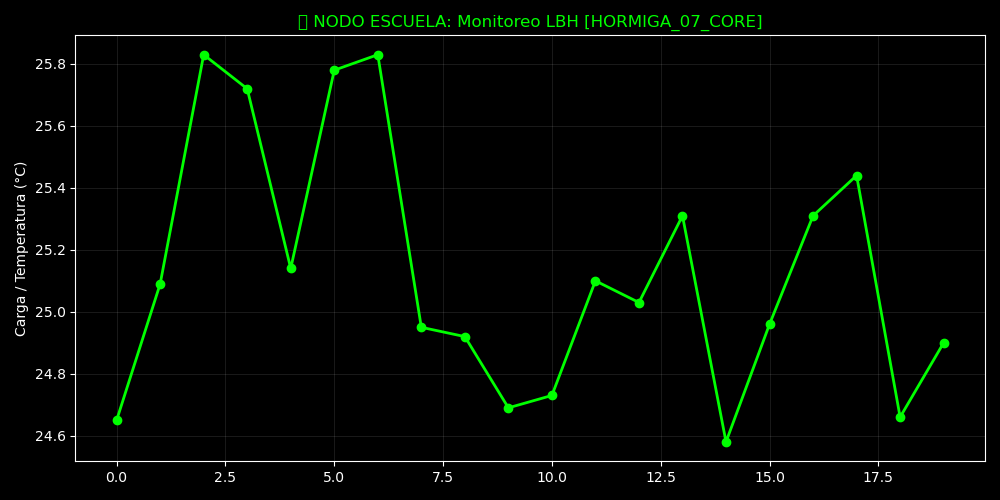
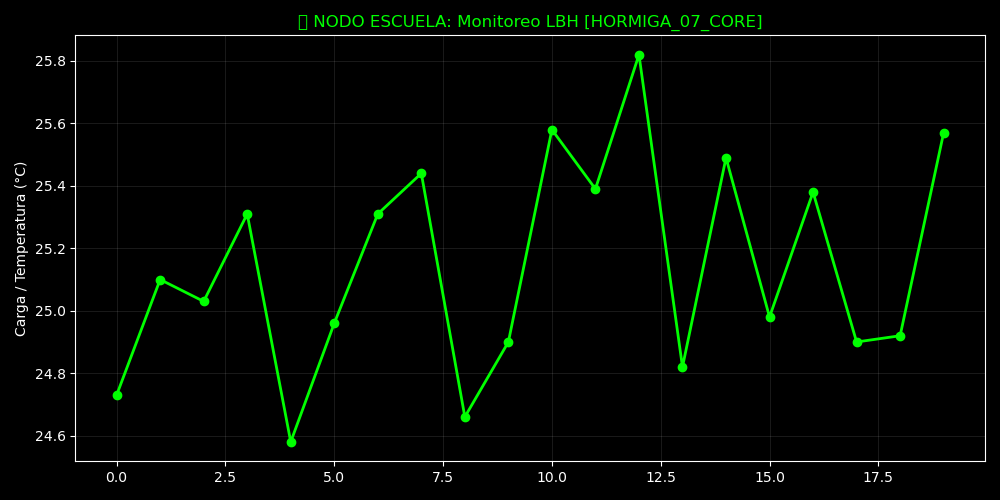
📈 Gráfico Vivo: HORMIGA_07_CORE pulso [2025-12-28 19:48:25]

Changed region(s): [[0.031, 0.09, 0.961, 0.9], [0.279, 0.78, 0.31, 0.9]]

diff --git a/README.md b/README.md
@@ -7,7 +7,7 @@
 ![Rendimiento del Enjambre](REPORTE_RENDIMIENTO_HORMIGAS.png)
 
 > **Estado:** Operativo validado por protocolo LBH.
-> **Última Actualización: 2025-12-28 19:47:17 CST (LBH-Validated)
+> **Última Actualización: 2025-12-28 19:48:25 CST (LBH-Validated)
 
 ---
 © 2025 HormigasAIS - San Miguel, El Salvador.
